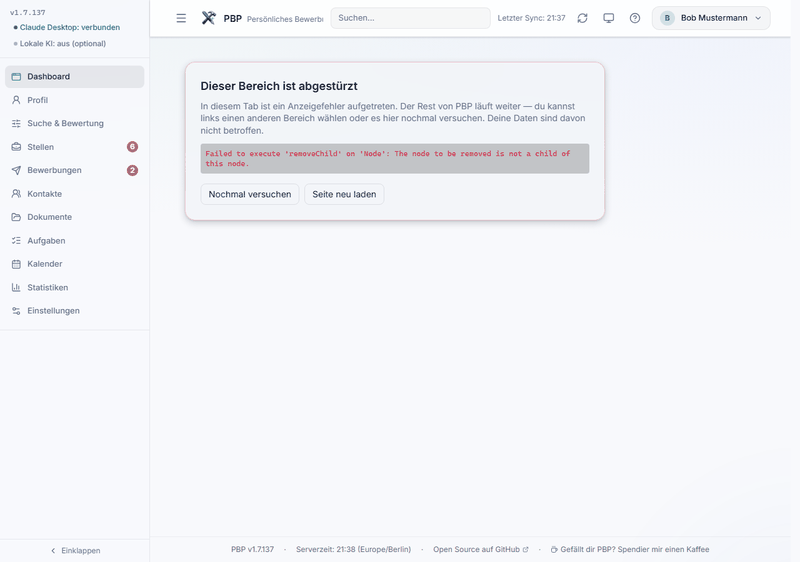
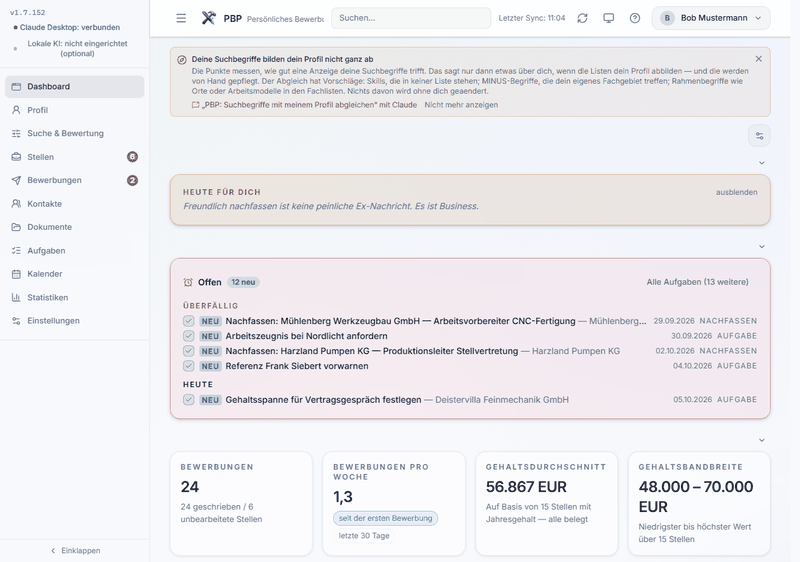
fix(#1170 PP7): das Titelbild des Wikis zeigte die Fehlerkarte 'Dieser Bereich ist abgestuerzt'
docs/screenshots/00c_dashboard_vollstaendig.png (Wiki-Start, 'Erste Schritte', README) stammte aus
dem Lauf zu v1.7.137 und zeigte 'Failed to execute removeChild on Node'. ENTDECKT beim Klick auf
den Anleitungs-Link der Praxisprobe: der Link fuehrt auf den Wiki-Start.

Ursache war der Generator, nicht die Anwendung: _dismiss_toasts loeschte mit el.remove() alles mit
[role=status] - darunter den Hinweis 'Claude Desktop ist nicht verbunden', einen Knoten, den React
verwaltet. Wechselte der Zustand danach auf 'verbunden', wollte React den schon entfernten Knoten
entfernen und stuerzte ab. Der Generator speicherte das Bild, ohne hinzusehen.

- Aufraeumen verbirgt nur noch die Toast-Ebene (display:none), entfernt nichts
- jede Aufnahme prueft vorher auf die Fehlerkarte und auf eine leere Seite und bricht ab
- 00c neu aufgenommen (Stable v1.7.152, Musterdaten); nur diese Datei und ihre Web-Kopie, Dateinamen unveraendert
- Tests: Ablauf nachgestellt (Hinweis -> Aufraeumen -> Verbindung); die Gegenprobe fuehrt die ALTE
  Anweisung aus und verlangt den Absturz; ein Bild-Test verhindert die Fehlerkarte im Repo

diff --git a/tests/test_v18_screenshot_generator.py b/tests/test_v18_screenshot_generator.py
@@ -1,0 +1,184 @@
+"""Praxisprobe 1.8 (05.10.2026), Teil Schaufenster: das Titelbild des Wikis zeigte die Fehlerkarte „Dieser Bereich ist abgestürzt“.
+
+`docs/screenshots/00c_dashboard_vollstaendig.png` (Wiki-Start, „Erste Schritte“, README) stammt aus dem Lauf zu v1.7.137 und
+zeigt „Failed to execute 'removeChild' on 'Node'“. Ursache war der Generator, nicht die Anwendung: `_dismiss_toasts` löschte mit
+`el.remove()` alles mit `[role="status"]` — darunter den Hinweis „Claude Desktop ist nicht verbunden“, einen Knoten, den React
+verwaltet. Wechselte der Zustand danach auf „verbunden“, wollte React den Knoten entfernen, der schon fort war, und stürzte ab.
+Der Generator speicherte das Bild, ohne hinzusehen.
+
+Diese Tests stellen den Ablauf nach: Hinweis steht da → Toast-Aufräumen → Verbindung kommt. Die Gegenprobe führt die ALTE
+Anweisung aus und verlangt, dass sie abstürzt — sonst bewiese der Test nichts.
+"""
+import importlib.util
+import os
+import socket
+import threading
+import time
+import urllib.request
+from pathlib import Path
+
+import pytest
+import uvicorn
+
+try:
+    from playwright.sync_api import Error as PlaywrightError
+    from playwright.sync_api import sync_playwright
+except ImportError:
+    PlaywrightError = Exception
+    sync_playwright = None
+
+ROOT = Path(__file__).resolve().parents[1]
+ABSTURZ = "Dieser Bereich ist abgestürzt"
+ALTE_ANWEISUNG = """
+    document.querySelectorAll('[class*="toast"], [class*="Toast"], [role="alert"], [role="status"]')
+        .forEach(el => el.remove());
+"""
+
+
+def _generator():
+    spec = importlib.util.spec_from_file_location("generate_screenshots_pp7", ROOT / "docs" / "screenshots" / "generate_screenshots.py")
+    modul = importlib.util.module_from_spec(spec)
+    spec.loader.exec_module(modul)
+    return modul
+
+
+def _free_port() -> int:
+    with socket.socket() as s:
+        s.bind(("127.0.0.1", 0))
+        return s.getsockname()[1]
+
+
+@pytest.fixture
+def server(tmp_path):
+    os.environ["BA_DATA_DIR"] = str(tmp_path)
+    from bewerbungs_assistent.database import Database, get_data_dir
+    import bewerbungs_assistent.dashboard as dash
+    gen = _generator()
+
+    db = Database(db_path=tmp_path / "test.db")
+    db.initialize()
+    assert str(tmp_path) in str(db.db_path), f"DB nicht isoliert: {db.db_path}"
+    assert str(tmp_path) in str(get_data_dir()), f"Datenordner nicht isoliert: {get_data_dir()}"
+    gen.musterprofile.seed_all(db)
+    dash._db = db
+    port = _free_port()
+    srv = uvicorn.Server(uvicorn.Config(dash.app, host="127.0.0.1", port=port, log_level="warning"))
+    srv.install_signal_handlers = lambda: None
+    t = threading.Thread(target=srv.run, daemon=True)
+    t.start()
+    for _ in range(300):
+        try:
+            urllib.request.urlopen(f"http://127.0.0.1:{port}/api/status", timeout=1)
+            break
+        except Exception:
+            time.sleep(0.1)
+    yield f"http://127.0.0.1:{port}", db, gen
+    srv.should_exit = True
+    t.join(timeout=10)
+    dash._db = None
+    db.close()
+    os.environ.pop("BA_DATA_DIR", None)
+
+
+@pytest.fixture(scope="module")
+def browser():
+    if sync_playwright is None:
+        pytest.skip("Playwright nicht installiert")
+    try:
+        with sync_playwright() as pw:
+            b = pw.chromium.launch(headless=True)
+            yield b
+            b.close()
+    except PlaywrightError as exc:
+        pytest.skip(f"Playwright/Chromium nicht verfuegbar: {exc}")
+
+
+def _aenderung(db) -> None:
+    """Eine Änderung, die das Token der Live-Aktualisierung bewegt (Anzahl der Stellen) — die Seite fragt dann den Status neu ab.
+    Einstellungen zählen NICHT zum Token; mit `set_setting` kam der Wechsel nur zufällig an."""
+    db.save_jobs([{"hash": f"pp7{time.time_ns()}", "title": "Sachbearbeitung Einkauf", "company": "Musterbetrieb GmbH",
+                   "url": f"https://example.com/pp7/{time.time_ns()}", "source": "manuell",
+                   "description": "Aufgaben: Disposition und Bestellabwicklung. " * 3, "score": 1}])
+
+
+def _ablauf(browser, url, db, aufraeumen) -> str:
+    """Hinweis steht da → aufräumen → die Verbindung kommt. Rückgabe: 'abgestuerzt' oder 'ok'."""
+    from bewerbungs_assistent import heartbeat
+    page = browser.new_page(viewport={"width": 1280, "height": 900}, color_scheme="light")
+    fehler = []
+    page.on("pageerror", lambda e: fehler.append(str(e)))
+
+    def _abgestuerzt() -> bool:
+        # entweder die Fehlerkarte oder ein ungefangener Fehler von React („removeChild“)
+        return bool(page.get_by_text(ABSTURZ).count()) or any("removeChild" in f for f in fehler)
+
+    try:
+        page.goto(url + "/#dashboard")
+        page.wait_for_selector("text=Claude Desktop ist nicht verbunden", timeout=60000)
+        aufraeumen(page)
+        # Jetzt „verbindet“ sich Claude: frischer Herzschlag, dazu eine Änderung, die die Seite zum Nachfragen bringt
+        heartbeat._write_heartbeat_file("pp7", is_alive=False)
+        _aenderung(db)
+        ende = time.monotonic() + 60
+        while time.monotonic() < ende:
+            if _abgestuerzt():
+                return "abgestuerzt"
+            if page.get_by_text("Claude Desktop: verbunden").count():
+                time.sleep(2)                       # dem Wechsel Zeit lassen, den Knoten zu entfernen
+                return "abgestuerzt" if _abgestuerzt() else "ok"
+            time.sleep(0.5)
+        raise AssertionError(f"die Seite hat den Verbindungswechsel nicht übernommen; Fehler: {fehler[:2]}")
+    finally:
+        page.close()
+
+
+def test_pp7_das_aufraeumen_des_generators_laesst_react_in_ruhe(server, browser):
+    url, db, gen = server
+    assert _ablauf(browser, url, db, gen._dismiss_toasts) == "ok"
+
+
+def test_pp7_gegenprobe_die_alte_anweisung_stuerzt_die_seite_ab(server, browser):
+    url, db, _ = server
+    ergebnis = _ablauf(browser, url, db, lambda page: page.evaluate(ALTE_ANWEISUNG))
+    assert ergebnis == "abgestuerzt", "der Test stellt die Ursache nicht nach — dann beweist er nichts"
+
+
+def test_pp7_der_generator_speichert_kein_bild_einer_abgestuerzten_seite(server, browser):
+    url, db, gen = server
+    from bewerbungs_assistent import heartbeat
+    page = browser.new_page(viewport={"width": 1280, "height": 900})
+    fehler = []
+    page.on("pageerror", lambda e: fehler.append(str(e)))
+    try:
+        page.goto(url + "/#dashboard")
+        page.wait_for_selector("text=Claude Desktop ist nicht verbunden", timeout=60000)
+        # Absturz absichtlich herbeiführen: den React-Knoten selbst entfernen und den Zustand wechseln lassen
+        page.evaluate(ALTE_ANWEISUNG)
+        heartbeat._write_heartbeat_file("pp7", is_alive=False)
+        _aenderung(db)
+        ende = time.monotonic() + 60
+        while time.monotonic() < ende and not (page.get_by_text(ABSTURZ).count() or any("removeChild" in f for f in fehler)):
+            time.sleep(0.5)
+        assert page.get_by_text(ABSTURZ).count() or any("removeChild" in f for f in fehler), "der Absturz ließ sich nicht herbeiführen"
+        time.sleep(1)                       # die Seite setzt sich (Karte oder leerer Baum), bevor der Generator hinsieht
+        # Jede Aufnahme des Generators läuft über _dismiss_toasts — dort sitzt die Prüfung
+        with pytest.raises(RuntimeError, match="abgestuerzt"):
+            gen._dismiss_toasts(page)
+        with pytest.raises(RuntimeError, match="abgestuerzt"):
+            gen._pruefe_kein_absturz(page)
+    finally:
+        page.close()
+
+
+def test_pp7_kein_bild_im_repo_zeigt_die_fehlerkarte():
+    """Die Fehlerkarte hat einen grauen Block (194,196,199) mit roter Schrift; er füllt dort rund 27.000 Pixel. Der Wert für
+    ein gesundes Bild liegt unter 300 (Schriftkanten, Rahmen)."""
+    from PIL import Image
+    ziel = (194, 196, 199)
+    gefunden = {}
+    for png in sorted((ROOT / "docs" / "screenshots").glob("*.png")):
+        daten = Image.open(png).convert("RGB").getdata()
+        gefunden[png.name] = sum(1 for p in daten if abs(p[0] - ziel[0]) + abs(p[1] - ziel[1]) + abs(p[2] - ziel[2]) <= 6)
+    assert gefunden, "keine Screenshots gefunden"
+    schlecht = {n: z for n, z in gefunden.items() if z > 5000}
+    assert not schlecht, f"zeigt die Fehlerkarte: {schlecht}"

diff --git a/docs/screenshots/generate_screenshots.py b/docs/screenshots/generate_screenshots.py
@@ -73,11 +73,31 @@ def _dismiss_toasts(page):
                 time.sleep(0.3)
         except Exception:
             pass
+    # NIE entfernen, nur verbergen: `[role="status"]` trifft auch Hinweise der Seite (React-Knoten, zum Beispiel
+    # "Claude Desktop ist nicht verbunden"). Ein entfernter Knoten laesst React beim naechsten Zustandswechsel mit
+    # "Failed to execute 'removeChild' on 'Node'" abstuerzen - das Titelbild des Wikis zeigte seit v1.7.137 die
+    # Fehlerkarte "Dieser Bereich ist abgestuerzt" (Praxisprobe 1.8, 05.10.2026). Verborgen wird nur die Toast-Ebene.
     page.evaluate("""
-        document.querySelectorAll('[class*="toast"], [class*="Toast"], [role="alert"], [role="status"]')
-            .forEach(el => el.remove());
+        document.querySelectorAll('[class*="toast"], [class*="Toast"], [role="alert"].fixed, [role="status"].fixed')
+            .forEach(el => { el.style.display = 'none'; });
     """)
     time.sleep(0.3)
+    _pruefe_kein_absturz(page)
+
+
+ABSTURZ_TEXT = "Dieser Bereich ist abgestürzt"
+
+
+def _pruefe_kein_absturz(page):
+    """Ein Bild der Fehlerkarte (oder einer leeren Seite) ist kein Bild der Oberflaeche - dann lieber gar keins.
+
+    Stuerzt React oberhalb der Fehlergrenze ab, bleibt keine Karte stehen, sondern ein leerer Baum: auch den erkennt die
+    Pruefung (jede Seite der Anwendung traegt die Seitenleiste mit "Einstellungen")."""
+    if page.get_by_text(ABSTURZ_TEXT).count():
+        meldung = page.locator("pre").first.inner_text() if page.locator("pre").count() else ""
+        raise RuntimeError(f"Die Seite ist abgestuerzt, es wird kein Screenshot gespeichert: {meldung[:200]}")
+    if "Einstellungen" not in page.inner_text("body"):
+        raise RuntimeError("Die Seite ist leer oder abgestuerzt (keine Seitenleiste), es wird kein Screenshot gespeichert")
 
 
 def _screenshot(page, url, output_path, desc):
